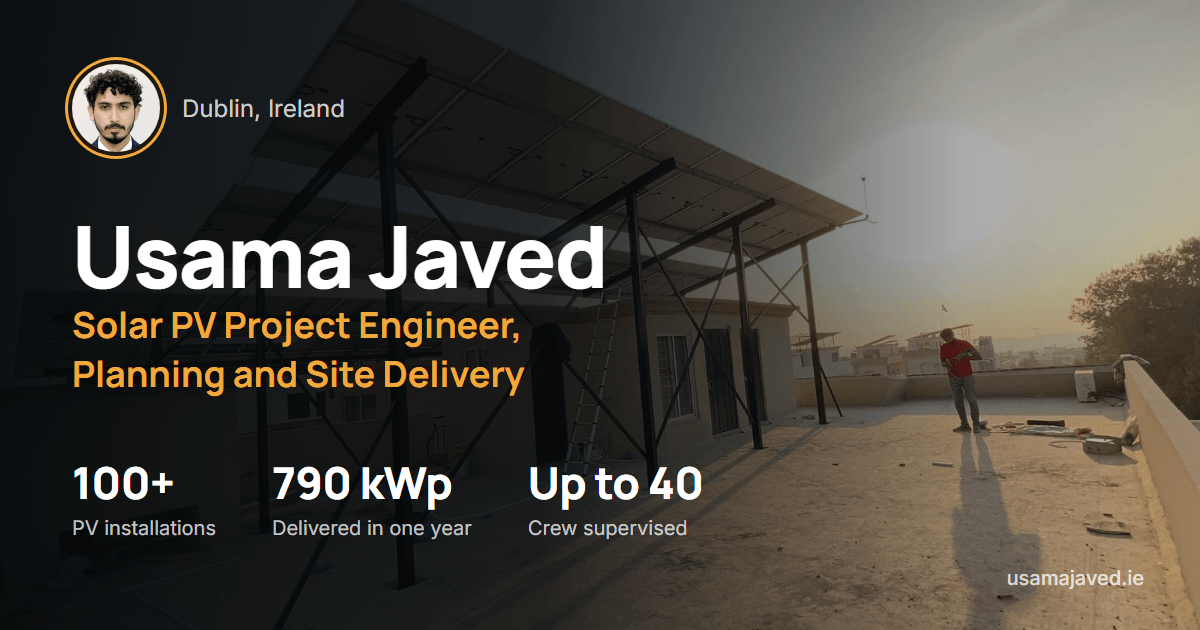
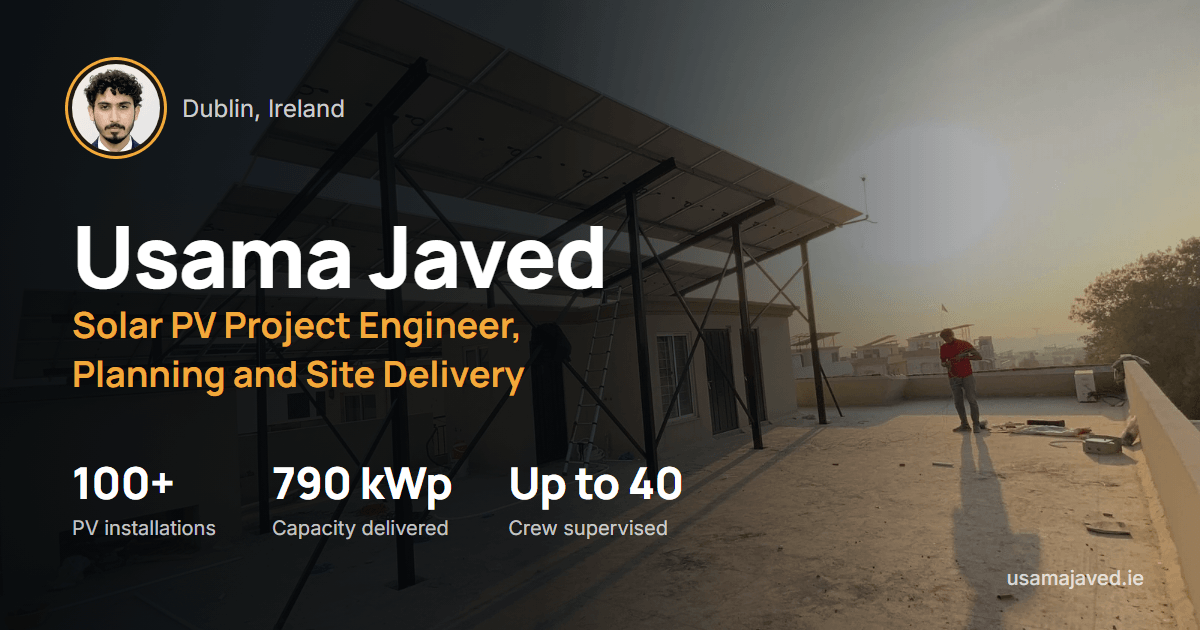
790 kWp is the total across 36 projects, not a one-year figure: stat label, descriptions, share card, alt text and CV

Changed region(s): [[0.4008, 0.7238, 0.5858, 0.8746], [0.2158, 0.8143, 0.4008, 0.8746]]

diff --git a/src/lib/data.ts b/src/lib/data.ts
@@ -16,7 +16,7 @@
 
 export const stats = [
   { value: "100+", label: "PV installations delivered", sub: "5 kWp domestic systems to a 115 kWp commercial rooftop" },
-  { value: "790 kWp", label: "Delivered in one year", sub: "36 projects, 85 to 90% completed on time" },
+  { value: "790 kWp", label: "Capacity delivered", sub: "36 projects, 85 to 90% completed on time" },
   { value: "Up to 40", label: "Crew members supervised", sub: "across five concurrent sites" },
   { value: "3.5 years", label: "Solar PV experience", sub: "from site survey through commissioning" },
 ];
@@ -176,7 +176,7 @@ export const projects = [
     challenge: "Material availability and labour shortages caused slippage while crews worked five sites at once.",
     action:
       "Allocated daily works across crews of up to 40 people, traced slippage to its causes and re-sequenced works to contain the impact on downstream activities.",
-    result: "Held 85 to 90% on-time completion across 36 projects in the year.",
+    result: "Held 85 to 90% on-time completion across 36 projects.",
     stack: ["Crew allocation", "Slippage tracking", "Programme control"],
   },
 ];

diff --git a/src/lib/seo.ts b/src/lib/seo.ts
@@ -6,7 +6,7 @@ import { CONTENT_UPDATED, SITE_URL } from "./site";
 export const TITLE = `${profile.name} | ${profile.headline}`;
 
 export const DESCRIPTION =
-  "Usama Javed, solar PV project engineer in Dublin. Over 100 installations from 5 to 115 kWp, 790 kWp in one year and crews of up to 40 supervised.";
+  "Usama Javed, solar PV project engineer in Dublin. Over 100 installations from 5 to 115 kWp, 790 kWp across 36 projects and crews of up to 40 supervised.";
 
 export const SHORT_DESCRIPTION =
   "Solar PV project engineer in Dublin. Over 100 installations delivered, with planning in Primavera P6 and MS Project, PV design and site supervision.";
@@ -15,7 +15,7 @@ export const OG_IMAGE = {
   url: "/opengraph-image.png",
   width: 1200,
   height: 630,
-  alt: "Usama Javed, Solar PV Project Engineer, Planning and Site Delivery, Dublin, Ireland. 100+ PV installations, 790 kWp delivered in one year, up to 40 crew supervised.",
+  alt: "Usama Javed, Solar PV Project Engineer, Planning and Site Delivery, Dublin, Ireland. 100+ PV installations, 790 kWp delivered across 36 projects, up to 40 crew supervised.",
   type: "image/png",
 };
 
